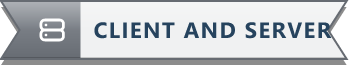
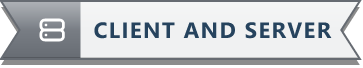
feat: host Chiseled Blocks: Create page images, fix clipped badges

diff --git a/README.md b/README.md
@@ -15,11 +15,13 @@ The source code stays where it is; only the published images live here.
 
 ## Layout
 
-One folder per mod, named exactly like the mod's GitHub repository:
+One folder per mod, named exactly like the mod's GitHub repository (an addon kept in its mod's
+repository gets its own folder, named after the repository with the addon's suffix):
 
 ```
 MC-Images/
-├── MC-ChiseledBlocks/     Chiseled Blocks (Minecraft mod) and its Create addon
+├── MC-ChiseledBlocks/     Chiseled Blocks (Minecraft mod)
+├── MC-ChiseledBlocks-Create/  Chiseled Blocks: Create (addon of Chiseled Blocks)
 ├── MC-MostLight/          MostLight (Minecraft mod)
 ├── MC-MostDecoration/     MostDecoration (Minecraft mod), empty until its page is made
 └── MC-Nokh-Frame/         Nokh Frame (Minecraft mod)
@@ -111,11 +113,13 @@ source reste là où il est ; seules les images publiées vivent ici.
 
 ## Organisation
 
-Un dossier par mod, nommé exactement comme le dépôt GitHub du mod :
+Un dossier par mod, nommé exactement comme le dépôt GitHub du mod (une extension gardée dans le
+dépôt de son mod a son propre dossier, nommé d'après le dépôt avec le suffixe de l'extension) :
 
 ```
 MC-Images/
-├── MC-ChiseledBlocks/     Chiseled Blocks (mod Minecraft) et son extension Create
+├── MC-ChiseledBlocks/     Chiseled Blocks (mod Minecraft)
+├── MC-ChiseledBlocks-Create/  Chiseled Blocks: Create (extension de Chiseled Blocks)
 ├── MC-MostLight/          MostLight (mod Minecraft)
 ├── MC-MostDecoration/     MostDecoration (mod Minecraft), vide en attendant sa page
 └── MC-Nokh-Frame/         Nokh Frame (mod Minecraft)
